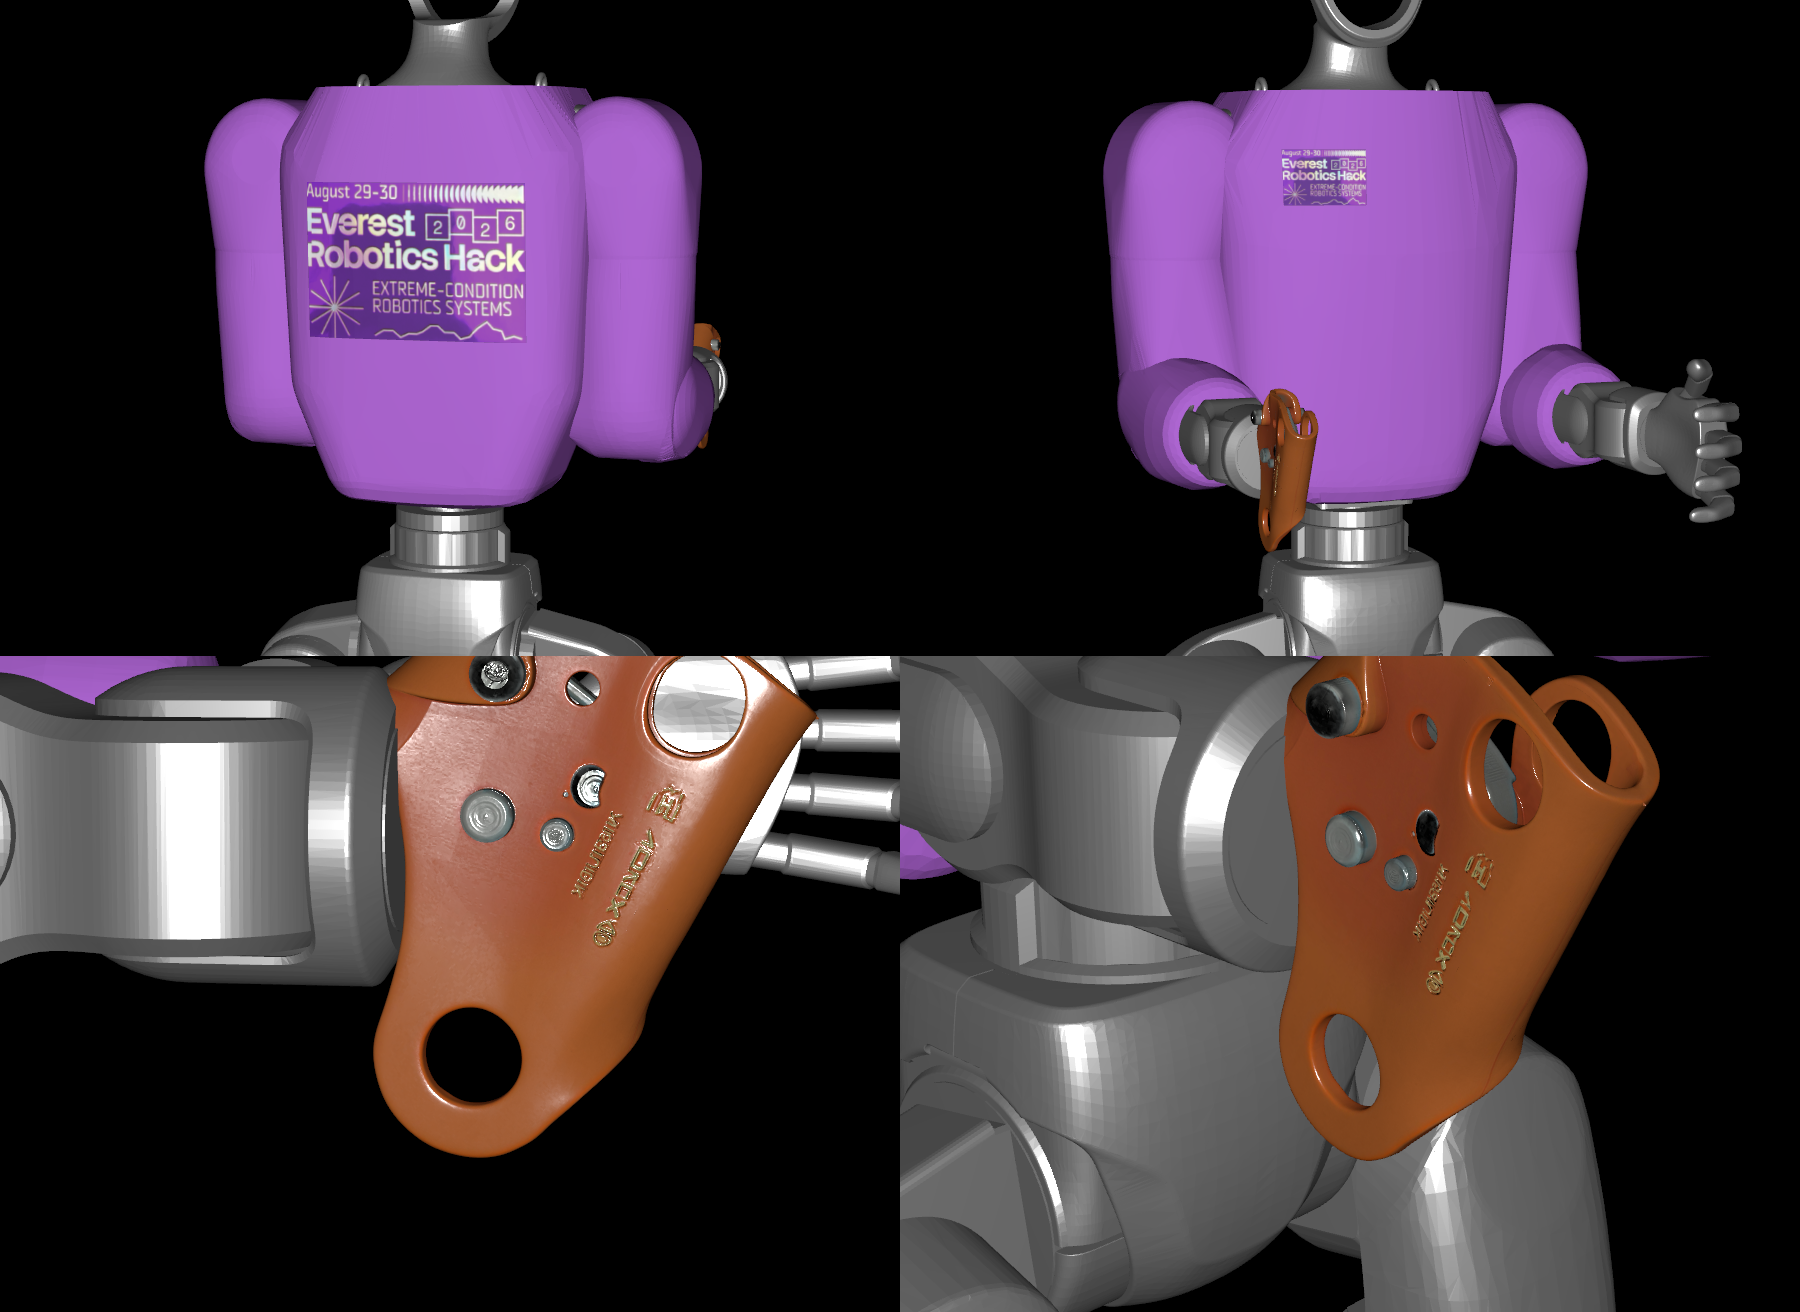
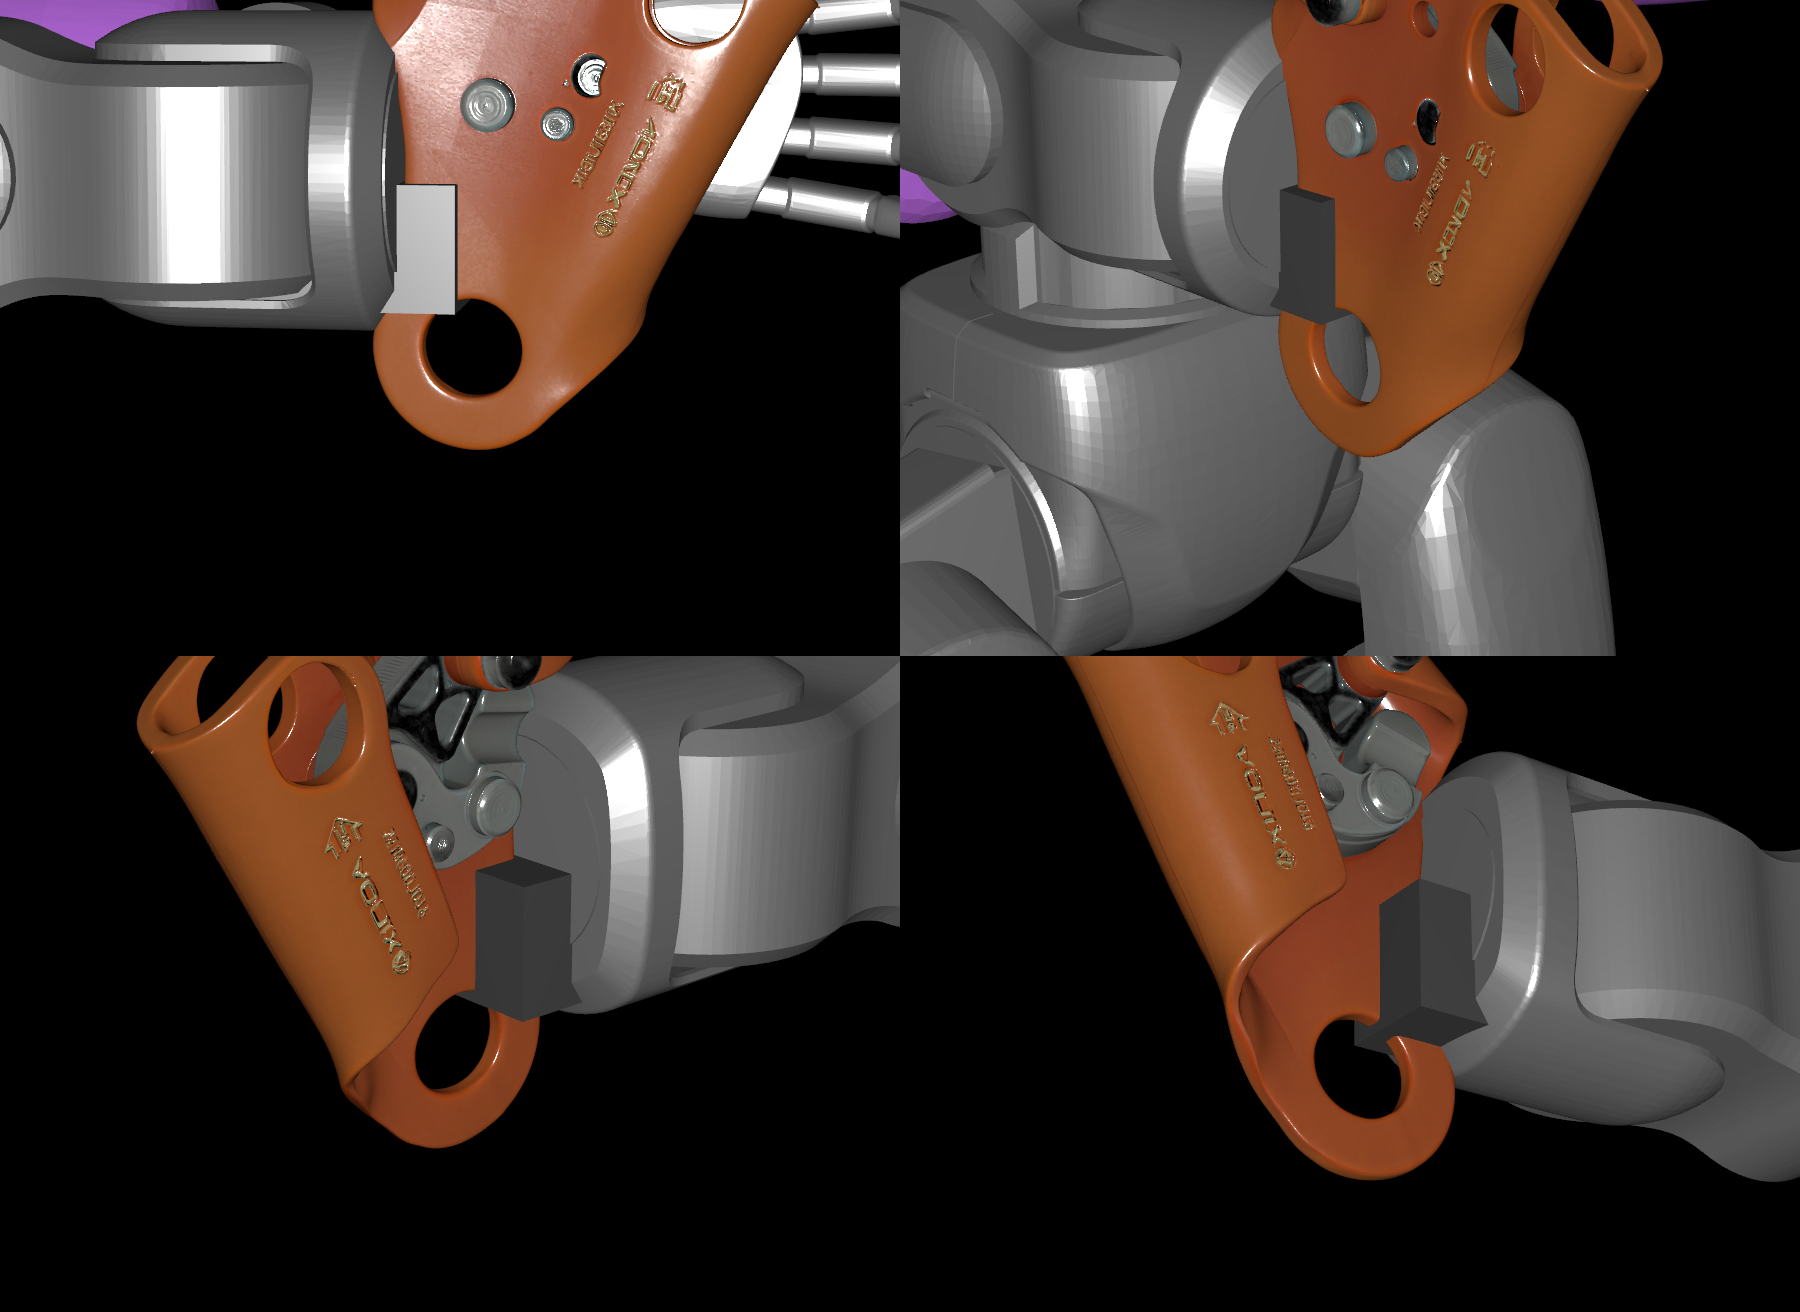
Effector +1 cm (Z_UP 0.03); rectangular mounting bracket under the mechanism
Claude-Session: https://claude.ai/code/session_01Kj5So1s4xrTsHeTeJU72py

diff --git a/assets/robots/g1/attach_tool.py b/assets/robots/g1/attach_tool.py
@@ -32,7 +32,7 @@ _tv = np.array(UsdGeom.Mesh(_ts.GetPrimAtPath("/Ascender/visual/mesh")).GetPoint
 _tr = np.array([Gf.Vec3d(*v) * _R for v in _tv[::50]])           # rotated sample of the tool points (wrist frame, before translation)
 EDGE_X, CAM_Z_TOOL = 0.036, 0.085                                  # edge 1 cm past the wrist mesh (ends x=0.026); cam centre at wrist z=0
 _cam = Gf.Vec3d(0, 0, CAM_Z_TOOL) * _R
-Z_UP = 0.02                                                        # raise the device along wrist Z
+Z_UP = 0.03                                                        # raise the device along wrist Z
 TOOL_POS = Gf.Vec3d(EDGE_X - _tr[:, 0].min(), 0.0, -_cam[2] + Z_UP)
 _qd = _R.ExtractRotation().GetQuat(); TOOL_ROT = Gf.Quatf(_qd.GetReal(), *_qd.GetImaginary())
 HAND_X_MIN = 0.08  # the rubber-hand paddle lives at x 0.087..0.132 in the wrist frame; wrist link mesh ends at 0.047
@@ -62,6 +62,20 @@ col = UsdGeom.Mesh.Define(stage, tp.GetPath().AppendChild("collision"))
 col.CreatePointsAttr(src_col.GetPointsAttr().Get()); col.CreateFaceVertexCountsAttr(src_col.GetFaceVertexCountsAttr().Get())
 col.CreateFaceVertexIndicesAttr(src_col.GetFaceVertexIndicesAttr().Get()); col.CreatePurposeAttr("guide"); col.CreateVisibilityAttr("invisible")
 UsdPhysics.CollisionAPI.Apply(col.GetPrim()); UsdPhysics.MeshCollisionAPI.Apply(col.GetPrim()).CreateApproximationAttr("convexHull")
+
+# mounting block: dark rectangular bracket from inside the wrist link into the plain slanted zone below the rivets
+bk_mat = UsdShade.Material.Define(stage, "/G1/Looks/bracket_black")
+bsh = UsdShade.Shader.Define(stage, "/G1/Looks/bracket_black/Shader"); bsh.CreateIdAttr("UsdPreviewSurface")
+bsh.CreateInput("diffuseColor", Sdf.ValueTypeNames.Color3f).Set(Gf.Vec3f(0.12, 0.12, 0.12))
+bsh.CreateInput("roughness", Sdf.ValueTypeNames.Float).Set(0.5); bsh.CreateInput("metallic", Sdf.ValueTypeNames.Float).Set(0.6)
+bk_mat.CreateSurfaceOutput().ConnectToSource(bsh.ConnectableAPI(), "surface")
+INSERT_TOOL_PT = Gf.Vec3d(0.0126, 0.0, 0.03)          # on the slanted edge, below the rivets (tool frame)
+_ins = INSERT_TOOL_PT * _R + TOOL_POS                  # -> wrist frame
+BLOCK_X0, BLOCK_X1, BLOCK_Y, BLOCK_Z = 0.012, _ins[0] + 0.012, 0.020, 0.024   # x span, width (Y), height (Z)
+bk = UsdGeom.Cube.Define(stage, tp.GetPath().GetParentPath().AppendChild("tool_bracket")); bk.CreateSizeAttr(1.0)
+bx = UsdGeom.Xformable(bk.GetPrim())
+bx.AddTranslateOp().Set(Gf.Vec3d((BLOCK_X0 + BLOCK_X1) / 2, 0.0, _ins[2])); bx.AddScaleOp().Set(Gf.Vec3f(BLOCK_X1 - BLOCK_X0, BLOCK_Y, BLOCK_Z))
+UsdShade.MaterialBindingAPI.Apply(bk.GetPrim()).Bind(bk_mat)
 
 # fold tool mass into the link (parallel-axis on the diagonal inertia is small at 165 g; keep principal axes)
 mass_src = UsdPhysics.MassAPI(src.GetPrimAtPath(LINK))
